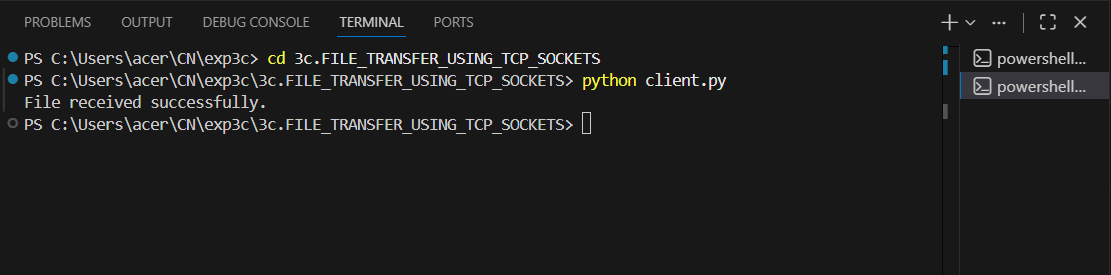
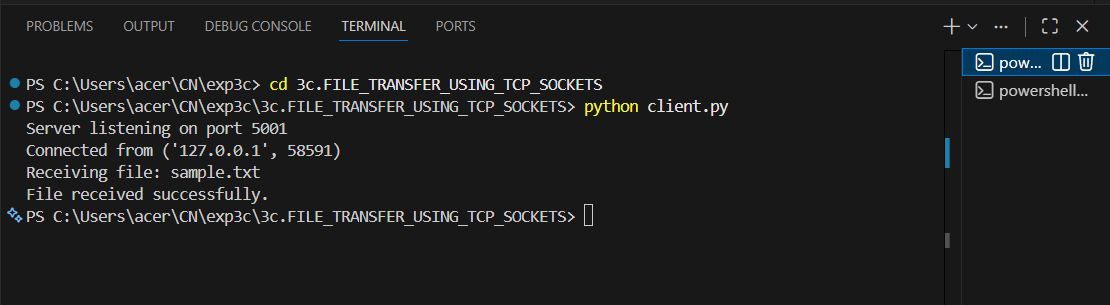
stop

diff --git a/server.py b/server.py
@@ -1,25 +1,20 @@
 import socket
-
-def send_file(filename, host='127.0.0.1', port=65432):
-    # Create TCP socket
-    server_socket = socket.socket(socket.AF_INET, socket.SOCK_STREAM)
-    server_socket.bind((host, port))
-    server_socket.listen(1)
-    print(f"Server listening on {host}:{port}")
-
-    conn, addr = server_socket.accept()
-    print(f"Connected by {addr}")
-
-    # Open file and send in chunks
-    with open(filename, 'rb') as f:
-        data = f.read(1024)
-        while data:
-            conn.send(data)
-            data = f.read(1024)
-
-    print("File transfer complete.")
-    conn.close()
-    server_socket.close()
-
-if __name__ == "__main__":
-    send_file("sample.txt")   # Replace with the file you want to send
+import os
+SERVER_IP="127.0.0.1" 
+PORT=5001
+BUFFER_SIZE=4096
+filename=input("Enter file name to send: ")
+if not os.path.exists(filename):
+    print("File not found!")
+    exit()
+client=socket.socket()
+client.connect((SERVER_IP, PORT))
+client.send(filename.encode())
+with open(filename, "rb") as file:
+    while True:
+        data=file.read(BUFFER_SIZE)
+        if not data:
+            break
+        client.send(data)
+print("File sent successfully.")
+client.close()

diff --git a/client.py b/client.py
@@ -1,20 +1,21 @@
 import socket
-
-def receive_file(output_filename, host='127.0.0.1', port=65432):
-    # Create TCP socket
-    client_socket = socket.socket(socket.AF_INET, socket.SOCK_STREAM)
-    client_socket.connect((host, port))
-
-    # Receive file data and write to output file
-    with open(output_filename, 'wb') as f:
-        while True:
-            data = client_socket.recv(1024)
-            if not data:
-                break
-            f.write(data)
-
-    print("File received successfully.")
-    client_socket.close()
-
-if __name__ == "__main__":
-    receive_file("received_sample.txt")   # File will be saved here
+HOST="0.0.0.0"   
+PORT=5001
+BUFFER_SIZE=4096
+server=socket.socket()
+server.bind((HOST, PORT))
+server.listen(1)
+print("Server listening on port", PORT)
+conn, addr=server.accept()
+print("Connected from", addr)
+filename=conn.recv(BUFFER_SIZE).decode()
+print("Receiving file:", filename)
+with open("received_" + filename, "wb") as file:
+    while True:
+        data=conn.recv(BUFFER_SIZE)
+        if not data:
+            break
+        file.write(data)
+print("File received successfully.")
+conn.close()
+server.close()

diff --git a/README.md b/README.md
@@ -13,55 +13,51 @@ To write a python program for creating File Transfer using TCP Sockets Links
 client.py
 
 import socket
-
-def receive_file(output_filename, host='127.0.0.1', port=65432):
-    # Create TCP socket
-    client_socket = socket.socket(socket.AF_INET, socket.SOCK_STREAM)
-    client_socket.connect((host, port))
-
-    # Receive file data and write to output file
-    with open(output_filename, 'wb') as f:
-        while True:
-            data = client_socket.recv(1024)
-            if not data:
-                break
-            f.write(data)
-
-    print("File received successfully.")
-    client_socket.close()
-
-if __name__ == "__main__":
-    receive_file("received_sample.txt")   # File will be saved here
+HOST="0.0.0.0"   
+PORT=5001
+BUFFER_SIZE=4096
+server=socket.socket()
+server.bind((HOST, PORT))
+server.listen(1)
+print("Server listening on port", PORT)
+conn, addr=server.accept()
+print("Connected from", addr)
+filename=conn.recv(BUFFER_SIZE).decode()
+print("Receiving file:", filename)
+with open("received_" + filename, "wb") as file:
+    while True:
+        data=conn.recv(BUFFER_SIZE)
+        if not data:
+            break
+        file.write(data)
+print("File received successfully.")
+conn.close()
+server.close()
 
 ```
 ```
 server.py
 
 import socket
-
-def send_file(filename, host='127.0.0.1', port=65432):
-    # Create TCP socket
-    server_socket = socket.socket(socket.AF_INET, socket.SOCK_STREAM)
-    server_socket.bind((host, port))
-    server_socket.listen(1)
-    print(f"Server listening on {host}:{port}")
-
-    conn, addr = server_socket.accept()
-    print(f"Connected by {addr}")
-
-    # Open file and send in chunks
-    with open(filename, 'rb') as f:
-        data = f.read(1024)
-        while data:
-            conn.send(data)
-            data = f.read(1024)
-
-    print("File transfer complete.")
-    conn.close()
-    server_socket.close()
-
-if __name__ == "__main__":
-    send_file("sample.txt")   # Replace with the file you want to send
+import os
+SERVER_IP="127.0.0.1" 
+PORT=5001
+BUFFER_SIZE=4096
+filename=input("Enter file name to send: ")
+if not os.path.exists(filename):
+    print("File not found!")
+    exit()
+client=socket.socket()
+client.connect((SERVER_IP, PORT))
+client.send(filename.encode())
+with open(filename, "rb") as file:
+    while True:
+        data=file.read(BUFFER_SIZE)
+        if not data:
+            break
+        client.send(data)
+print("File sent successfully.")
+client.close()
 
 ```
 
